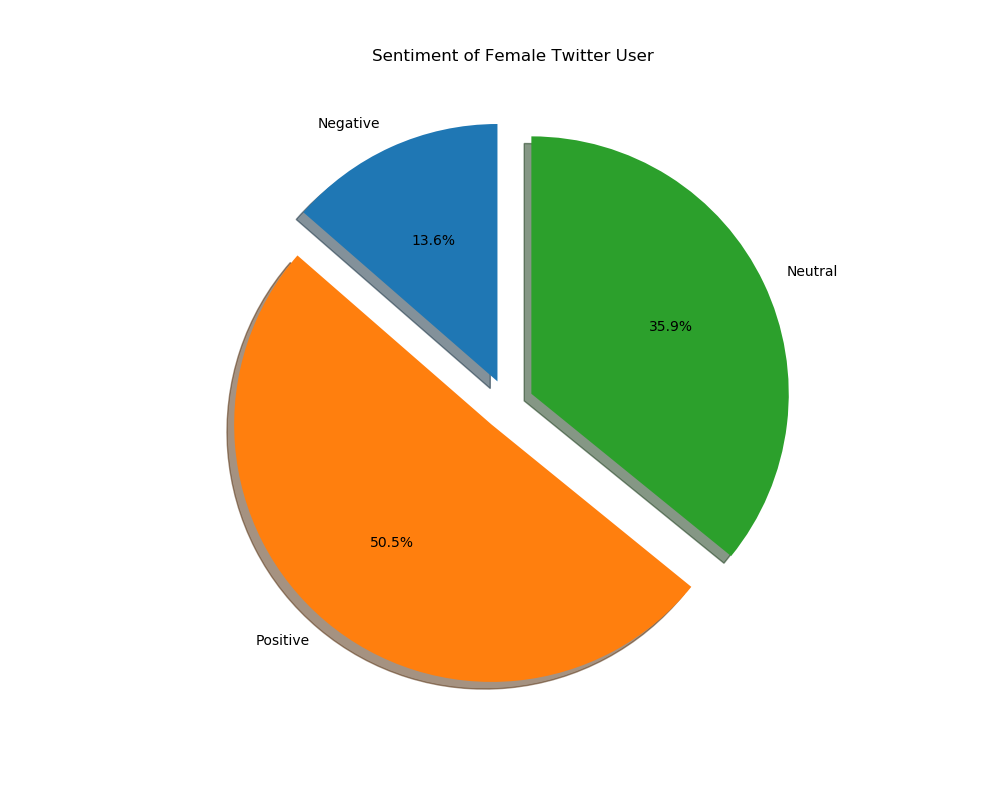
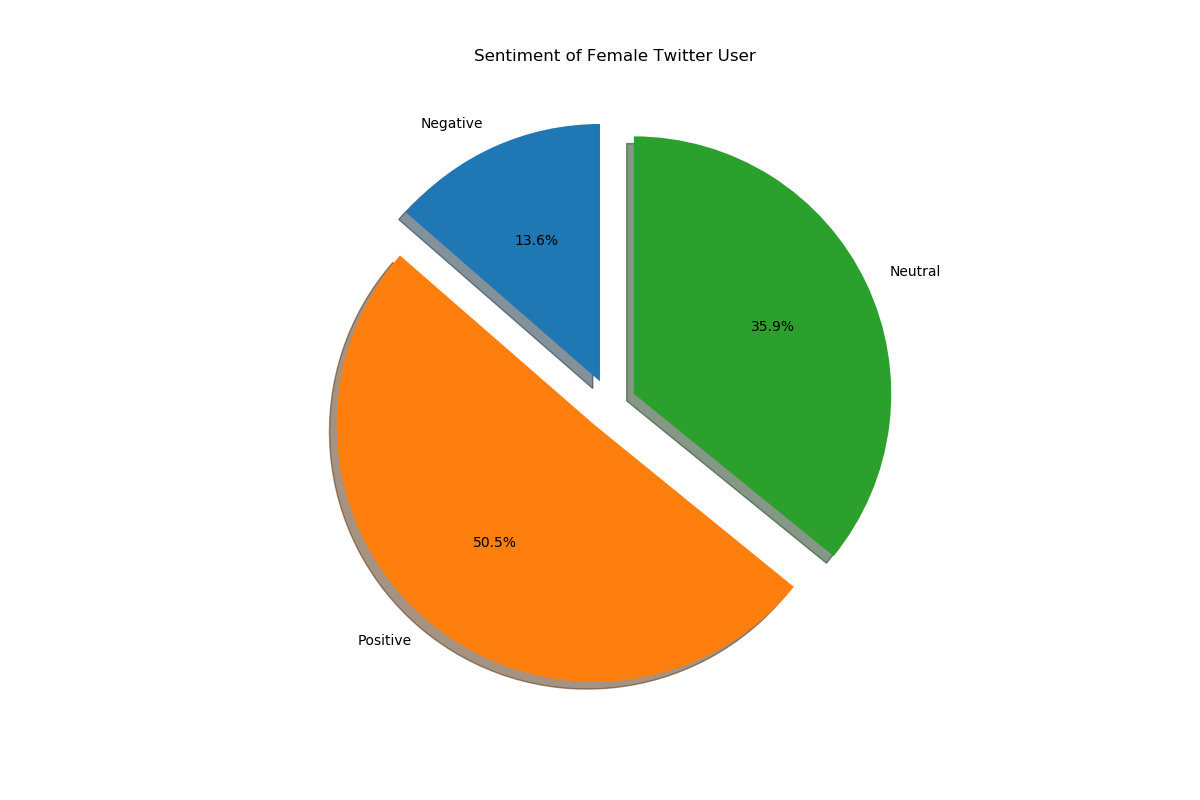
- Final Version 1.1

diff --git a/analyzing.py b/analyzing.py
@@ -7,7 +7,7 @@ import datetime
 
 
 fig_size = plt.rcParams["figure.figsize"]
-fig_size[0] = 10
+fig_size[0] = 12
 fig_size[1] = 8
 plt.rcParams["figure.figsize"] = fig_size
 imgFolder="Graphics/"
@@ -16,6 +16,7 @@ class GraphicAnalyzer():
 
     def showBarchart(self,df_key, df_counts,yLabel,title,filename):
         plt.clf()
+        plt.gcf().subplots_adjust(bottom=0.15)
         objects = df_key
         y_pos = np.arange(len(objects))
         performance = df_counts
@@ -30,17 +31,16 @@ class GraphicAnalyzer():
 
     def showDoubleBarchart(self,data1,data2,x,LabelD1,LabelD2,title,filename):
         plt.clf()
-
+        plt.gcf().subplots_adjust(bottom=0.20)
         ind = np.arange(len(data1))
         width = 0.35
         plt.bar(ind, data1, width, label=LabelD1)
         plt.bar(ind + width, data2, width,
                 label=LabelD2)
-
         plt.ylabel('Tweets')
         plt.title(title)
 
-        plt.xticks(ind + width / 2, x,rotation='vertical',fontsize=6)
+        plt.xticks(ind + width / 2, x,rotation='vertical',fontsize=10)
         plt.legend(loc='best')
         #plt.show()
         plt.savefig(imgFolder + filename, block=True)
@@ -49,6 +49,7 @@ class GraphicAnalyzer():
 
     def showPieChart(self,data, lables,title,filename):
         plt.clf()
+        plt.gcf().subplots_adjust(bottom=0.15)
         rcParams['axes.titlepad'] = 25
         colors = ["#1f77b4", "#ff7f0e", "#2ca02c", "#d62728", "#8c564b"]
         explode = [0.1] * len(data)

diff --git a/data_management.py b/data_management.py
@@ -521,7 +521,7 @@ if __name__ == '__main__':
         df = pd.DataFrame(result)
         graphics.showPieChart(df[1], df[0], "Continental Overview of Alcohol related Tweets", "ContinentOverviewTweetCount.png")
 
-        result = sql.selectStatement("SELECT CountryName,PosSentiment,NegSentiment*-1 FROM `data_scr_country_statistic` order by TweetCount desc limit 15 ")
+        result = sql.selectStatement("SELECT CountryName, (PosSentiment/TweetCount) as PosSemtiment, ((NegSentiment/TweetCount)*-1) as NegSemtimen  FROM `data_scr_country_statistic` order by TweetCount desc limit 30")
         df = pd.DataFrame(result)
-        graphics.showDoubleBarchart(df[1],df[2],df[0],"Positive,","Negative","Sentiment per Country Top 15","SentimentCountry.png")
+        graphics.showDoubleBarchart(df[1],df[2],df[0],"Positive,","Negative","Sentiment per Country Top 30","SentimentCountry.png")
     print("Data management done...")
